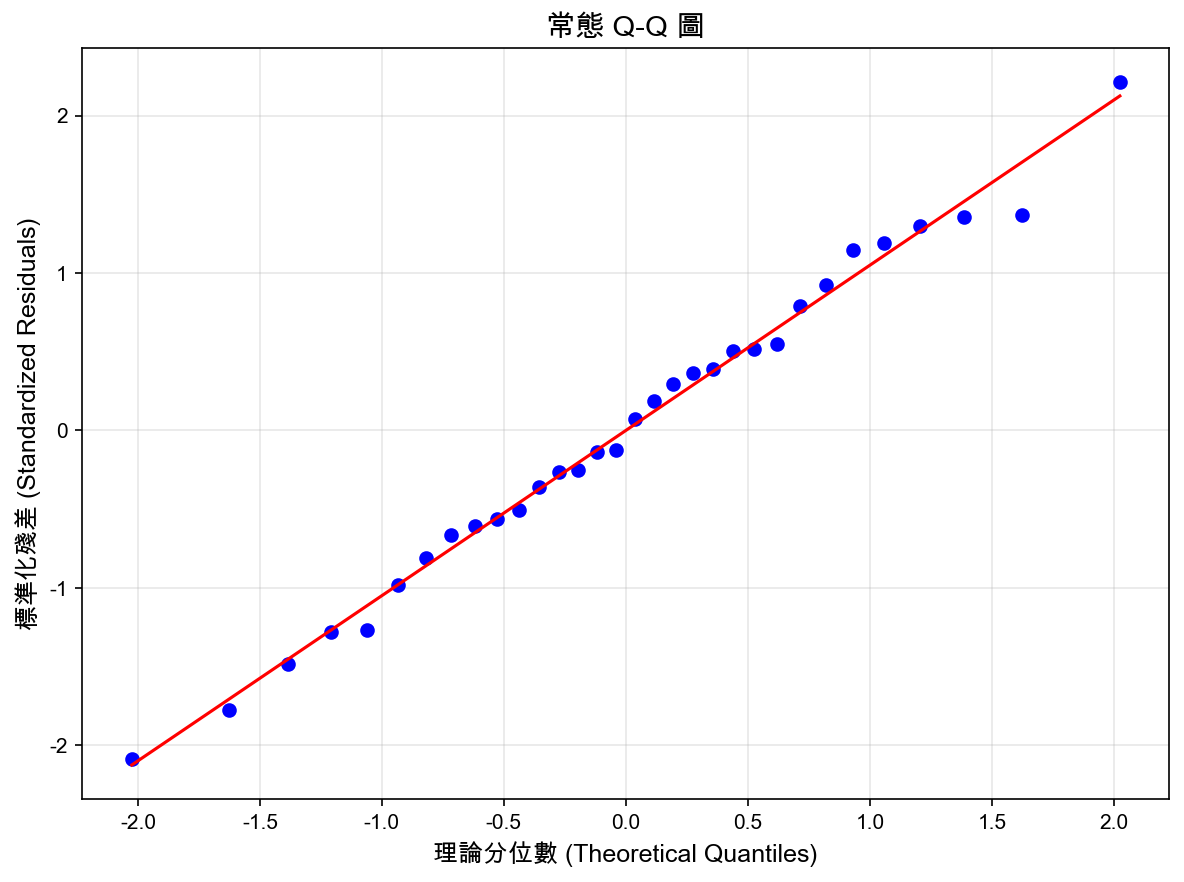
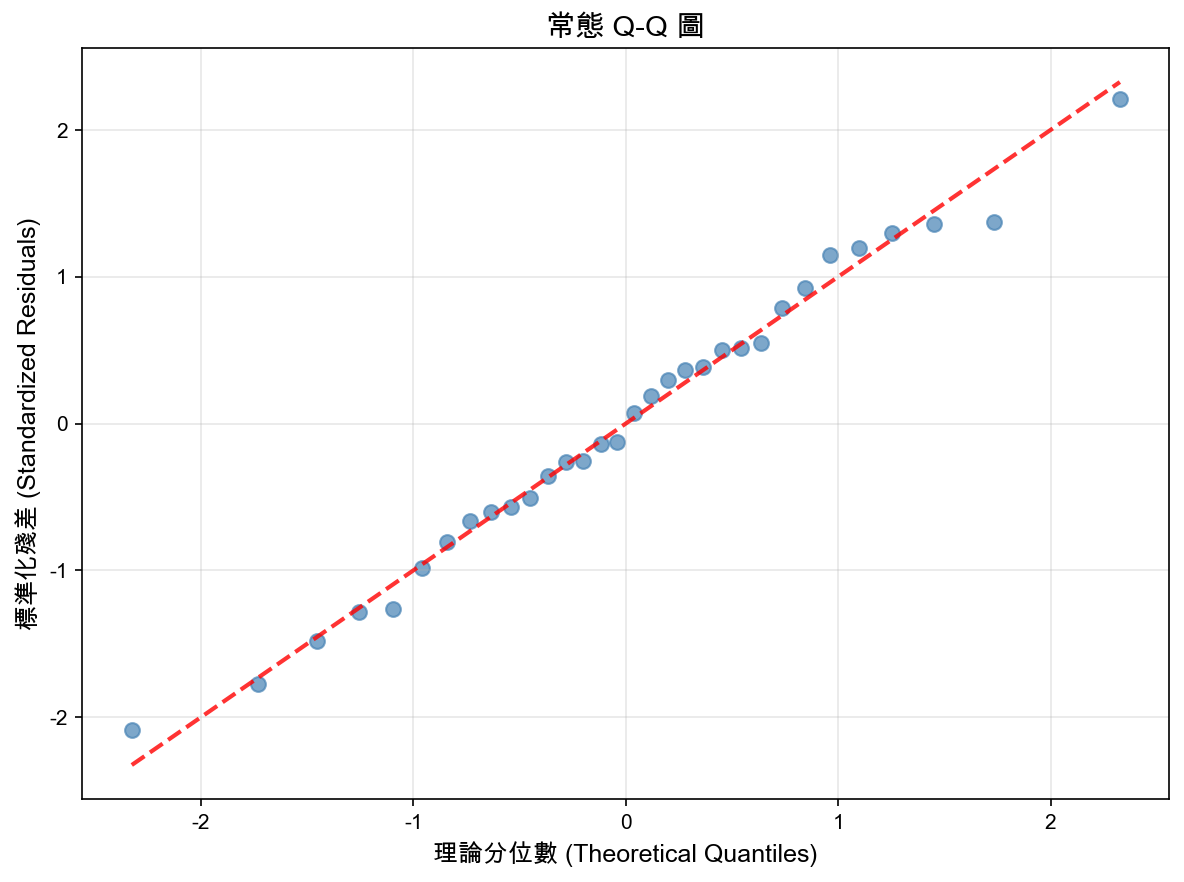
修正 Q-Q 圖參考線：實線改為虛線
問題：Q-Q 圖中的參考線顯示為實線，但應該是虛線
修正：
- 重寫 Python 腳本中的 Q-Q 圖生成邏輯
- 手動添加紅色虛線作為理論常態參考線
- 更新教材描述為「紅色虛線」

現在 Q-Q 圖符合標準格式：藍色散點 + 紅色虛線參考線

🤖 Generated with [Claude Code](https://claude.com/claude-code)

diff --git a/generate_diagnostic_plots.py b/generate_diagnostic_plots.py
@@ -50,7 +50,17 @@ plt.close()
 
 # 2. 常態 Q-Q 圖
 plt.figure(figsize=(8, 6))
-stats.probplot(standardized_residuals, dist="norm", plot=plt)
+# 手動創建 Q-Q 圖，確保參考線是虛線
+theoretical_quantiles = stats.norm.ppf(np.linspace(0.01, 0.99, len(standardized_residuals)))
+sample_quantiles = np.sort(standardized_residuals)
+
+plt.scatter(theoretical_quantiles, sample_quantiles, alpha=0.7, color='steelblue', s=50)
+
+# 添加虛線參考線
+min_val = min(min(theoretical_quantiles), min(sample_quantiles))
+max_val = max(max(theoretical_quantiles), max(sample_quantiles))
+plt.plot([min_val, max_val], [min_val, max_val], 'r--', linewidth=2, alpha=0.8, label='理論常態線')
+
 plt.xlabel('理論分位數 (Theoretical Quantiles)', fontsize=12)
 plt.ylabel('標準化殘差 (Standardized Residuals)', fontsize=12)
 plt.title('常態 Q-Q 圖', fontsize=14, fontweight='bold')
@@ -100,7 +110,8 @@ axes[0,0].set_ylabel('殘差')
 axes[0,0].set_title('殘差 vs 配適值')
 axes[0,0].grid(True, alpha=0.3)
 
-stats.probplot(standardized_residuals, dist="norm", plot=axes[0,1])
+axes[0,1].scatter(theoretical_quantiles, sample_quantiles, alpha=0.7, color='steelblue', s=30)
+axes[0,1].plot([min_val, max_val], [min_val, max_val], 'r--', linewidth=2, alpha=0.8)
 axes[0,1].set_xlabel('理論分位數')
 axes[0,1].set_ylabel('標準化殘差')
 axes[0,1].set_title('常態 Q-Q 圖')

diff --git a/R模型診斷實戰指南.md b/R模型診斷實戰指南.md
@@ -192,7 +192,7 @@ lines(lowess(fitted(model), residuals(model)), col = "blue", lwd = 2)
 
 - **X 軸**：理論分位數（常態分配的理論值）
 - **Y 軸**：標準化殘差（實際殘差）
-- **虛線**：完美常態的參考線
+- **紅色虛線**：完美常態的參考線
 
 #### 理想狀況
 
@@ -200,7 +200,7 @@ lines(lowess(fitted(model), residuals(model)), col = "blue", lwd = 2)
 *▲ 常態 Q-Q 圖：點接近對角線表示殘差呈常態分布*
 
 **判斷準則**：
-- ✅ 點大致落在虛線上
+- ✅ 點大致落在紅色虛線上
 - ✅ 兩端可以稍微偏離（樣本少時很正常）
 
 ---
